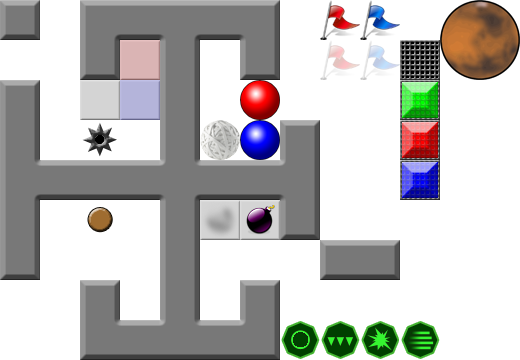
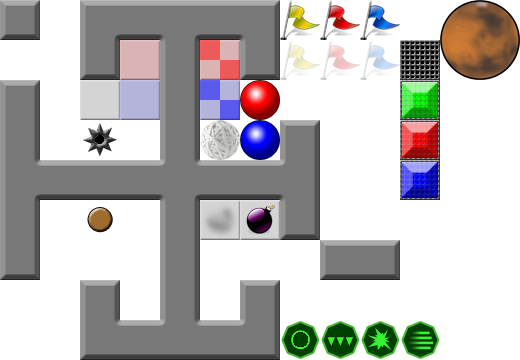
Added yellow flags and endzones.

Changed region(s): [[0.3692, 0.0917, 0.4615, 0.3361], [0.5231, 0.0, 0.6154, 0.2139]]

diff --git a/static/map.js b/static/map.js
@@ -648,7 +648,8 @@ $(function() {
 
   var floorType, emptyType, wallType, blueFlagType, redFlagType, switchType, bombType, onFieldType, offFieldType,
     redFieldType, blueFieldType, portalType, redSpawnType, blueSpawnType, redSpeedPadType, blueSpeedpadType, redFloorType, blueFloorType,
-    spikeType, powerupType, speedpadType;
+    spikeType, powerupType, speedpadType,
+    yellowFlagType, redEndzoneType, blueEndzoneType;
   var tileTypes = [
     emptyType = new TileType('empty', 0,1, 0,0,0, "Background"),
     floorType = new TileType('floor', 2,2, 212,212,212, "Tile"),
@@ -670,7 +671,10 @@ $(function() {
     redFlagType = new TileType('redFlag', 8,0, 255,0,0, "Red Flag"),
     blueFlagType = new TileType('blueFlag', 9,0, 0,0,255, "Blue Flag"),
     redSpawnType = new TileType('redSpawn', 6,2, 155,0,0, "Red Spawn Tile - Red balls will spawn within a certain radius of this tile."),
-    blueSpawnType = new TileType('blueSpawn', 6,3, 0,0,155, "Blue Spawn Tile - Blue balls will spawn within a certain radius of this tile.")
+    blueSpawnType = new TileType('blueSpawn', 6,3, 0,0,155, "Blue Spawn Tile - Blue balls will spawn within a certain radius of this tile."),
+    yellowFlagType = new TileType('yellowFlag', 7,0, 128,128,0, "Yellow Flag - Bring this neutral flag to your zone to score."),
+    redEndzoneType = new TileType('redEndzone', 5,1, 185,0,0, "Red Endzone - Bring a neutral (yellow) flag to this zone to score."),
+    blueEndzoneType = new TileType('blueEndzone', 5,2, 25,0,148, "Blue Endzone - Bring a neutral (yellow) flag to this zone to score.")
   ]
   function areOpposites(t1, t2) {
     t1.opposite = t2;
@@ -681,6 +685,7 @@ $(function() {
   areOpposites(redFieldType, blueFieldType);
   areOpposites(redFlagType, blueFlagType);
   areOpposites(redSpawnType, blueSpawnType);
+  areOpposites(redEndzoneType, blueEndzoneType);
   
 
   function Tile(options, elem) {
@@ -1107,22 +1112,30 @@ $(function() {
     localStorage.setItem('json', JSON.stringify(makeLogic()));
   });
 
-  function isValidMap() {
+  function isValidMapStr() {
     var hasRedFlag = false;
     var hasBlueFlag = false;
+    var hasRedEndzone = false;
+    var hasBlueEndzone = false;
     $.each(tiles, function(rowIdx, row) {
       $.each(row, function(tileIdx, tile) {
         if (tile.type.name == "redFlag") hasRedFlag = true;
         if (tile.type.name == "blueFlag") hasBlueFlag = true;
+        if (tile.type.name == "redEndzone") hasRedEndzone = true;
+        if (tile.type.name == "blueEndzone") hasBlueEndzone = true;
       });
     });
-    return (hasRedFlag && hasBlueFlag);
+    if (!(hasRedEndzone || hasRedFlag))
+      return "A map requires a red flag or a red endzone to test.";
+    if (!(hasBlueEndzone || hasBlueFlag))
+      return "A map requires a blue flag or a blue endzone to test.";
+    return "Valid";
   }
 
   $('#test').click(function() {
-    var valid = isValidMap();
-    if (!valid) {
-      alert("A map requires at least one red flag and one blue flag to test.");
+    var validStr = isValidMapStr();
+    if (validStr != "Valid") {
+      alert(validStr);
       return;
     }
     $.post('test', {logic: JSON.stringify(makeLogic()), layout: getPngBase64()}, function(data) {
@@ -1146,8 +1159,8 @@ $(function() {
   }
 
   var paletteRows = [
-    [wallType, floorType, emptyType],
-    [redFlagType, blueFlagType, redSpawnType, blueSpawnType],
+    [wallType, floorType, emptyType, redEndzoneType, blueEndzoneType],
+    [redFlagType, blueFlagType, yellowFlagType, redSpawnType, blueSpawnType],
     [speedpadType, redSpeedPadType, blueSpeedpadType, redFloorType, blueFloorType],
     [switchType, offFieldType, onFieldType, redFieldType, blueFieldType],
     [bombType, spikeType, powerupType, portalType]
